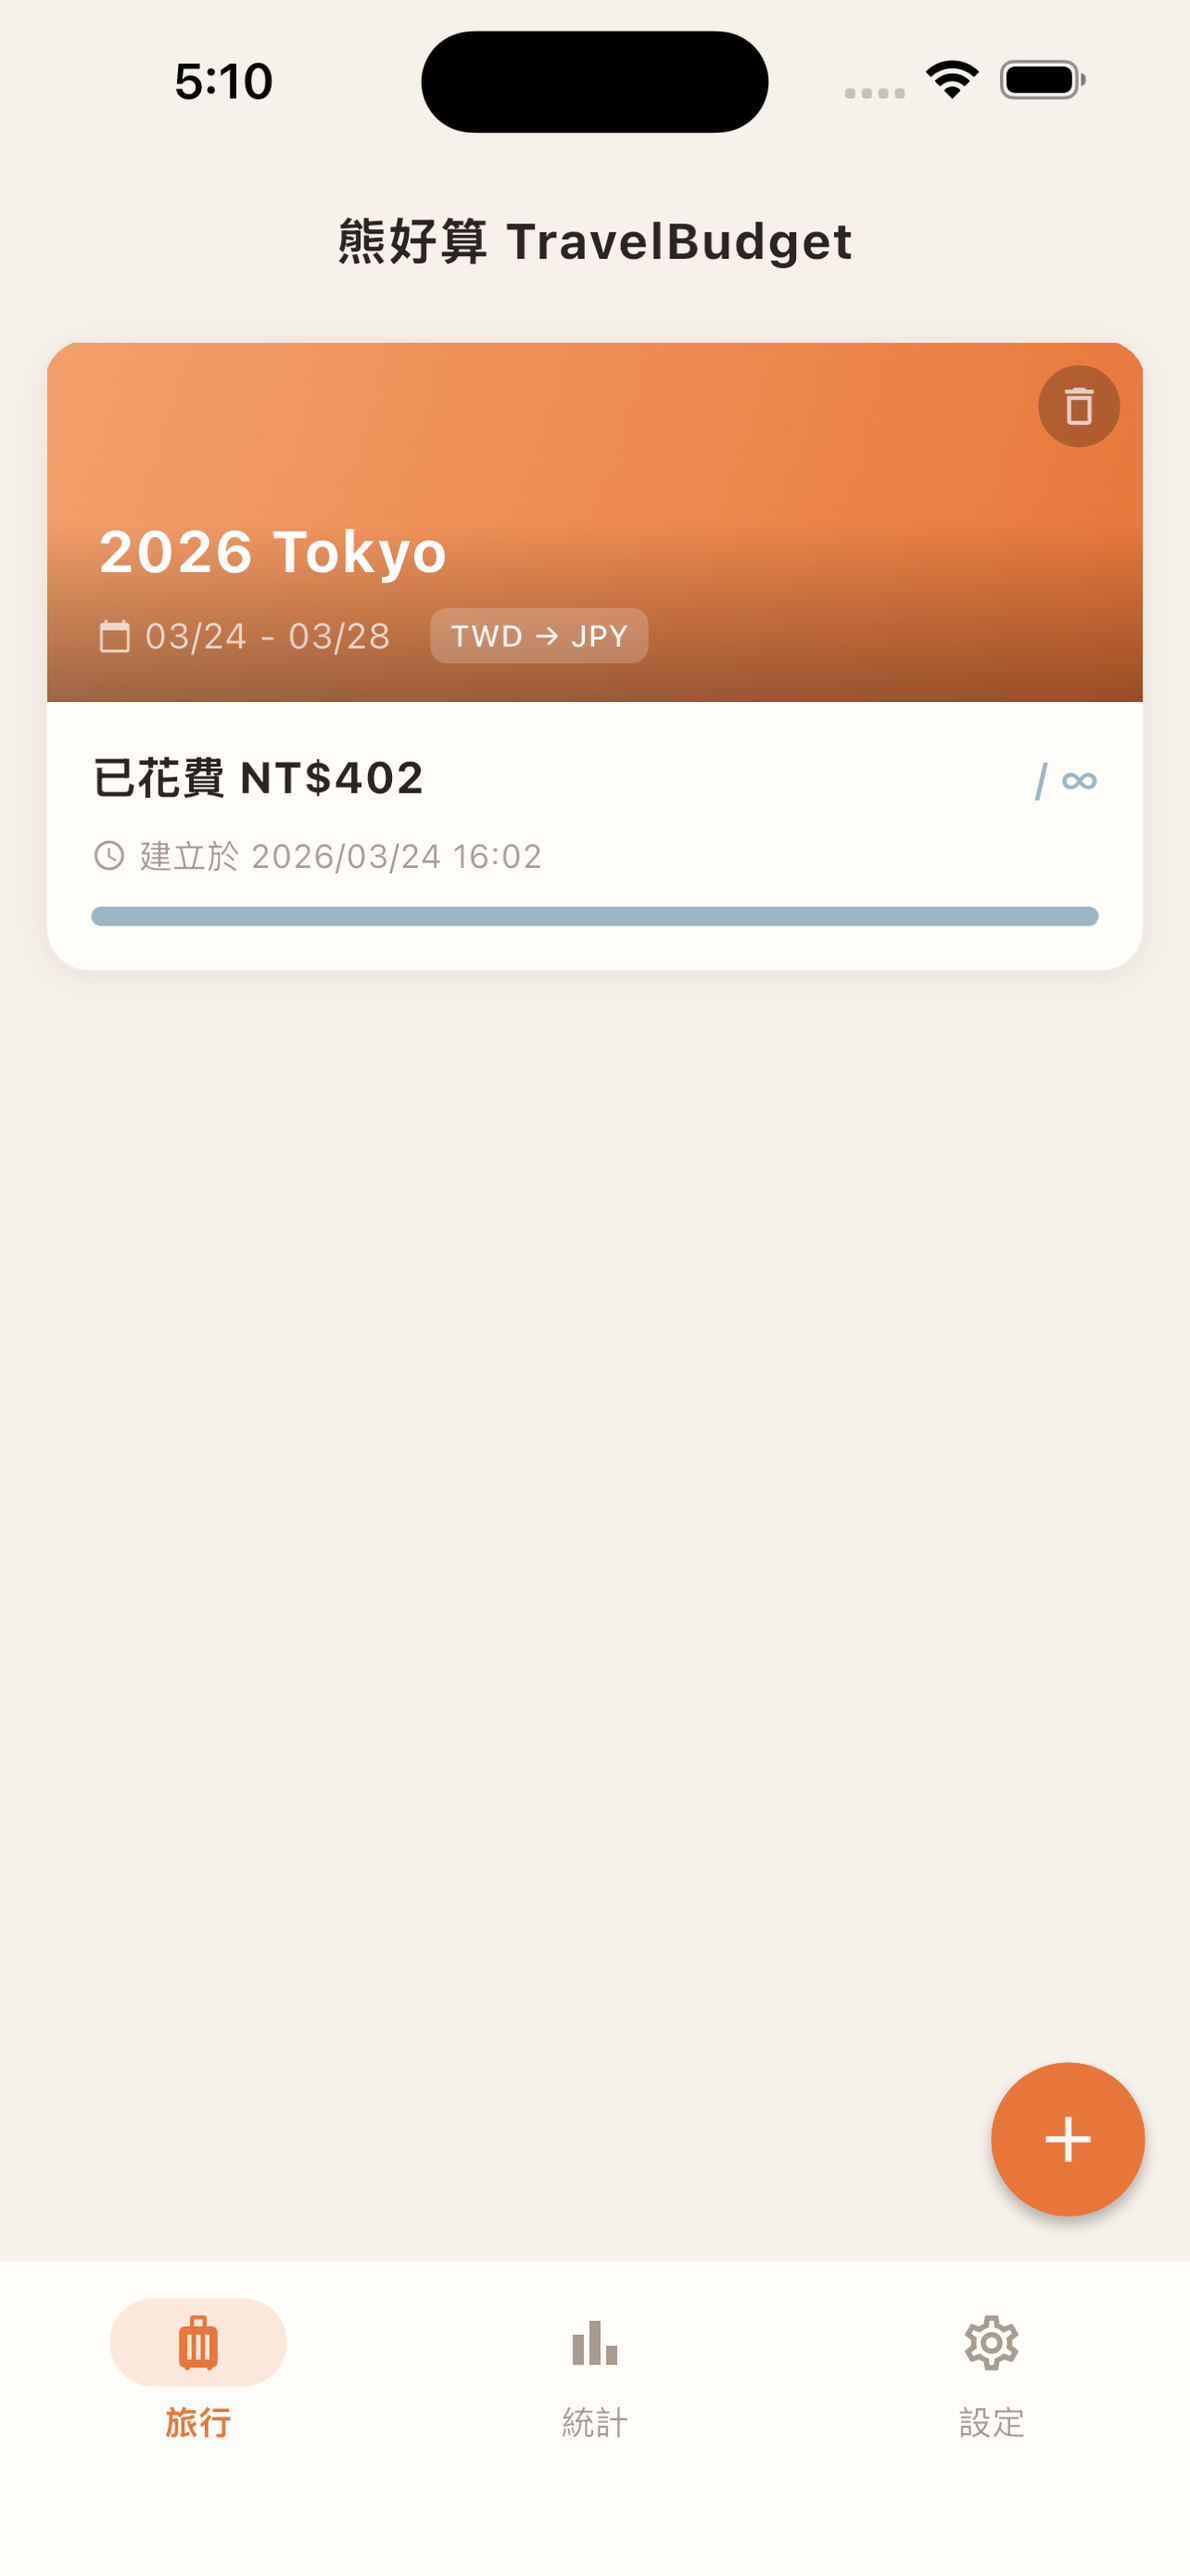
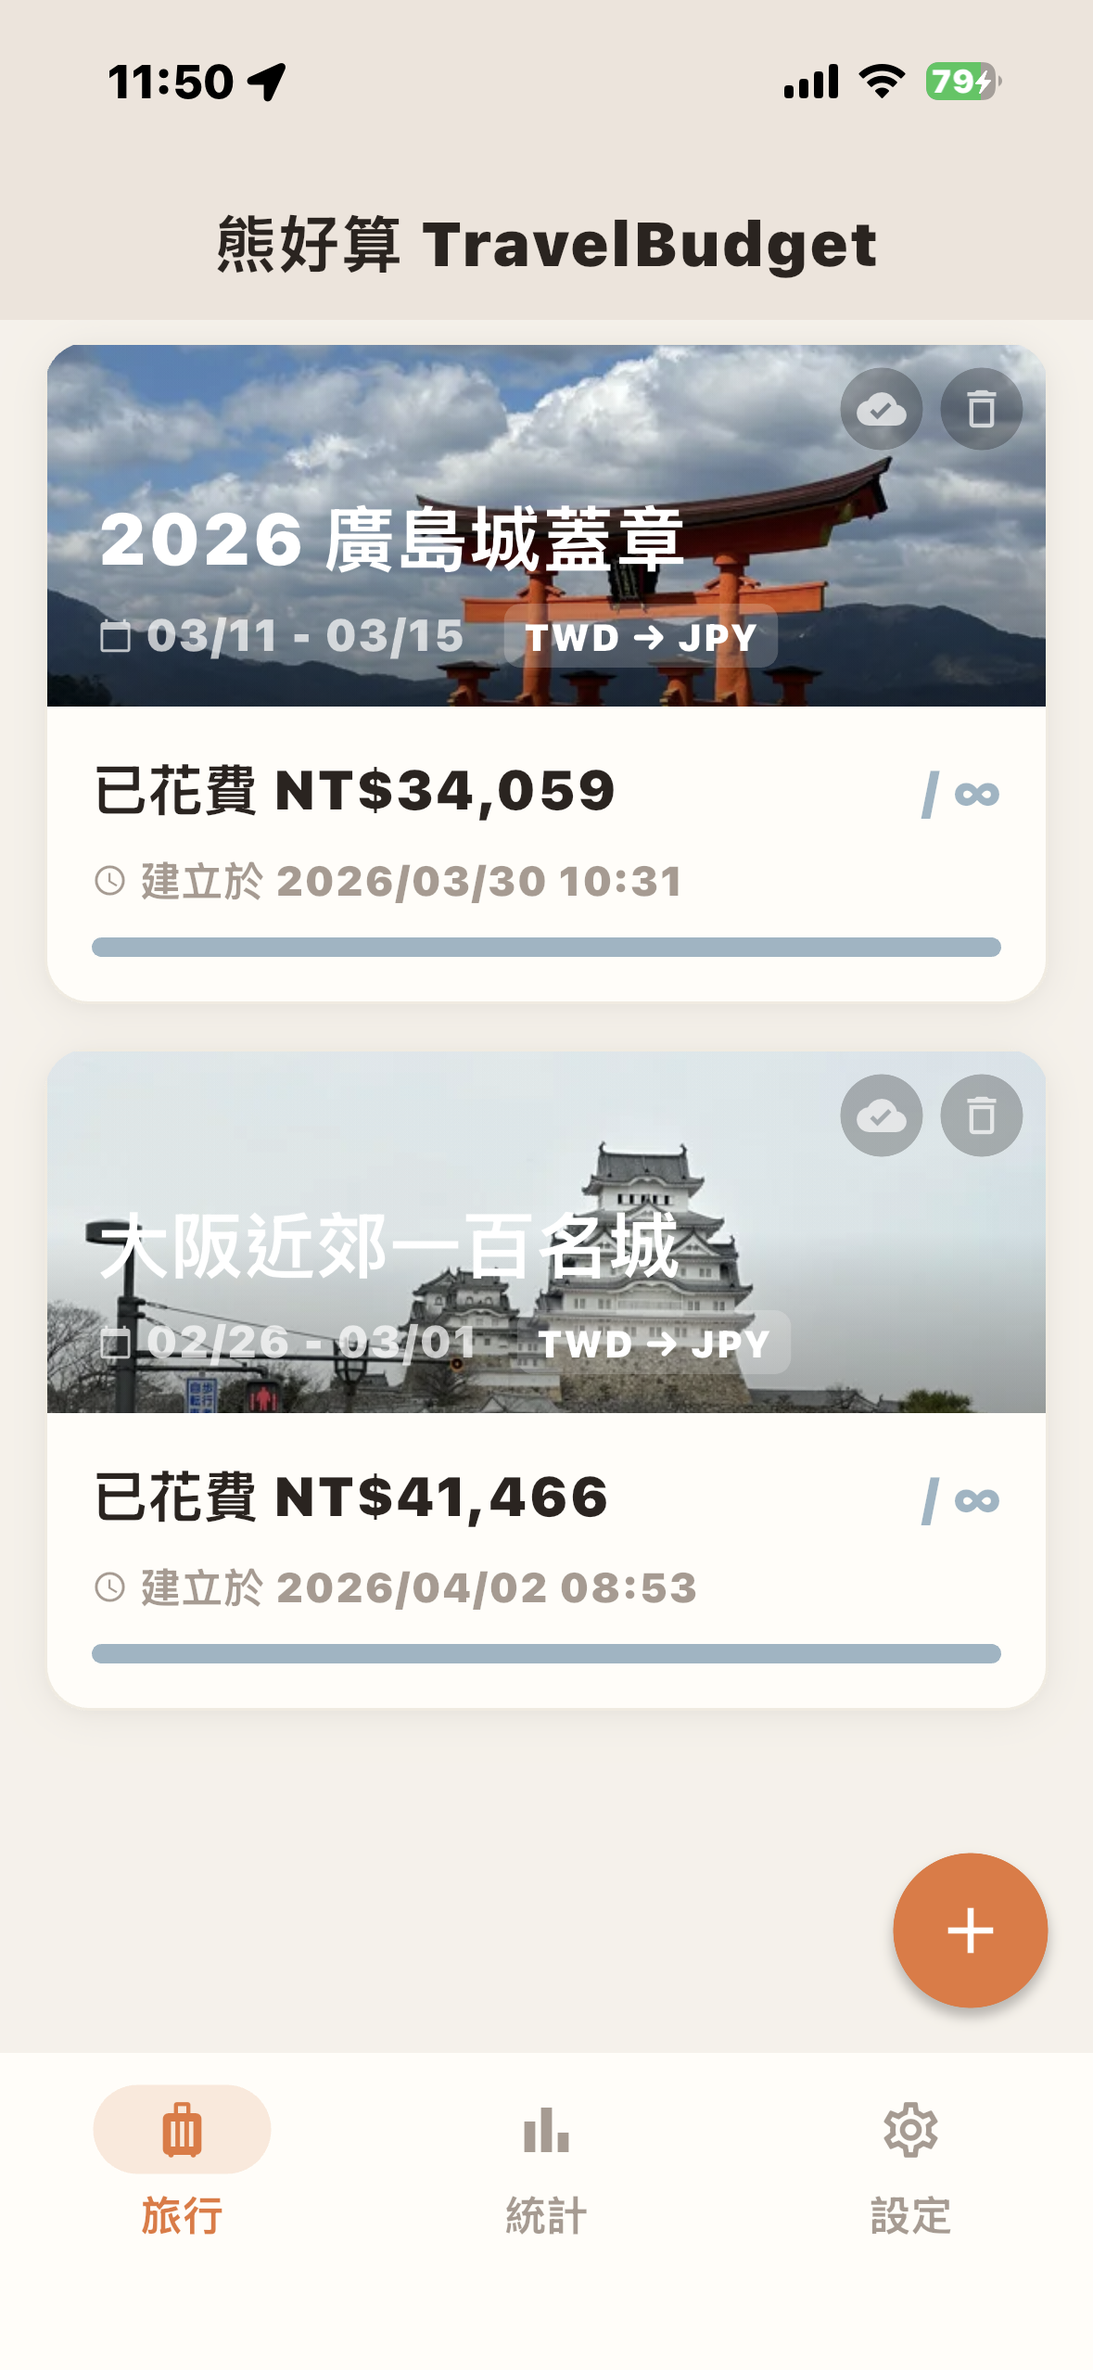
feat: 更新熊好算頁面並新增至導覽列
- 導覽列產品列表新增「熊好算 TravelBudget」選項
- 修正 App Store 連結為正確的 id6761038388
- 新增 Google Play 下載按鈕（敬請期待）
- 更新輪播截圖為最新版本
- 改善輪播切換按鈕樣式，增加可見度

diff --git a/web/app/pages/travel-budget/index.vue b/web/app/pages/travel-budget/index.vue
@@ -69,7 +69,7 @@ const features = [
           <p class="tb-hero-tagline">海外旅遊輕量化記帳，<br>外幣、匯率、預算一手掌握。</p>
           <div class="tb-hero-actions">
             <a
-              href="https://apps.apple.com/app/id6744042633"
+              href="https://apps.apple.com/tw/app/%E7%86%8A%E5%A5%BD%E7%AE%97-travelbudget/id6761038388"
               target="_blank"
               rel="noopener noreferrer"
               class="btn btn-primary tb-hero-btn"
@@ -79,6 +79,15 @@ const features = [
               </svg>
               App Store 下載
             </a>
+            <div class="tb-google-play-wrapper">
+              <span class="btn tb-hero-btn tb-hero-btn-disabled">
+                <svg width="18" height="18" viewBox="0 0 24 24" fill="currentColor">
+                  <path d="M3 20.5v-17c0-.83.52-1.28 1.23-.99l14.5 6.83c.73.36.73 1.02 0 1.35l-14.5 6.83c-.71.3-1.23-.12-1.23-.99v-.03zM15.5 12L5 17.5V6.5l10.5 5.5z"/>
+                </svg>
+                Google Play
+              </span>
+              <span class="tb-coming-soon">敬請期待</span>
+            </div>
           </div>
         </div>
         <div class="tb-hero-screenshot">
@@ -153,7 +162,7 @@ const features = [
           <h2 class="tb-cta-title">開始你的旅遊記帳</h2>
           <p class="tb-cta-desc">免費下載，地端與雲端皆可使用，<br>一個人出遊或多人共遊都適合。</p>
           <a
-            href="https://apps.apple.com/app/id6744042633"
+            href="https://apps.apple.com/tw/app/%E7%86%8A%E5%A5%BD%E7%AE%97-travelbudget/id6761038388"
             target="_blank"
             rel="noopener noreferrer"
             class="btn btn-primary tb-cta-btn"
@@ -163,6 +172,15 @@ const features = [
             </svg>
             App Store 下載
           </a>
+          <div class="tb-google-play-wrapper">
+            <span class="btn tb-cta-btn tb-cta-btn-disabled">
+              <svg width="18" height="18" viewBox="0 0 24 24" fill="currentColor">
+                <path d="M3 20.5v-17c0-.83.52-1.28 1.23-.99l14.5 6.83c.73.36.73 1.02 0 1.35l-14.5 6.83c-.71.3-1.23-.12-1.23-.99v-.03zM15.5 12L5 17.5V6.5l10.5 5.5z"/>
+              </svg>
+              Google Play
+            </span>
+            <span class="tb-coming-soon">敬請期待</span>
+          </div>
         </div>
       </div>
     </section>
@@ -281,6 +299,25 @@ const features = [
   transform: translateY(-2px);
 }
 
+.tb-hero-btn-disabled {
+  opacity: 0.45;
+  cursor: not-allowed;
+  pointer-events: none;
+}
+
+.tb-google-play-wrapper {
+  display: flex;
+  flex-direction: column;
+  align-items: center;
+  gap: 6px;
+}
+
+.tb-coming-soon {
+  font-size: 12px;
+  color: var(--color-text-light);
+  font-weight: 500;
+}
+
 /* Hero Screenshot / Carousel */
 .tb-hero-screenshot {
   display: flex;
@@ -316,23 +353,29 @@ const features = [
 .tb-carousel-dots {
   display: flex;
   justify-content: center;
-  gap: 8px;
+  gap: 10px;
   margin-top: 20px;
 }
 
 .tb-carousel-dot {
-  width: 8px;
-  height: 8px;
+  width: 10px;
+  height: 10px;
   border-radius: 50%;
-  border: none;
-  background-color: var(--tb-accent-light);
+  border: 2px solid var(--tb-accent);
+  background-color: transparent;
   cursor: pointer;
   transition: var(--transition);
+  padding: 0;
+}
+
+.tb-carousel-dot:hover {
+  background-color: var(--tb-accent-light);
+  transform: scale(1.15);
 }
 
 .tb-carousel-dot.active {
   background-color: var(--tb-accent);
-  transform: scale(1.2);
+  transform: scale(1.25);
 }
 
 /* Section titles */
@@ -446,6 +489,12 @@ const features = [
 .tb-cta-btn:hover {
   background-color: var(--tb-accent-dark);
   transform: translateY(-2px);
+}
+
+.tb-cta-btn-disabled {
+  opacity: 0.45;
+  cursor: not-allowed;
+  pointer-events: none;
 }
 
 /* Responsive */

diff --git a/web/app/components/NavBar.vue b/web/app/components/NavBar.vue
@@ -15,6 +15,7 @@ const navItems: NavItem[] = [
   {
     label: '產品列表',
     dropdown: [
+      { label: '熊好算 TravelBudget', href: '/travel-budget' },
       { label: '旅行日記 TravelDiary', href: '/travel-diary' },
       { label: '棉棉好朋友 CottonFriend', href: '/cotton-friend' },
       { label: '數據領航員 RAGPilot', href: '/rag-pilot' }
